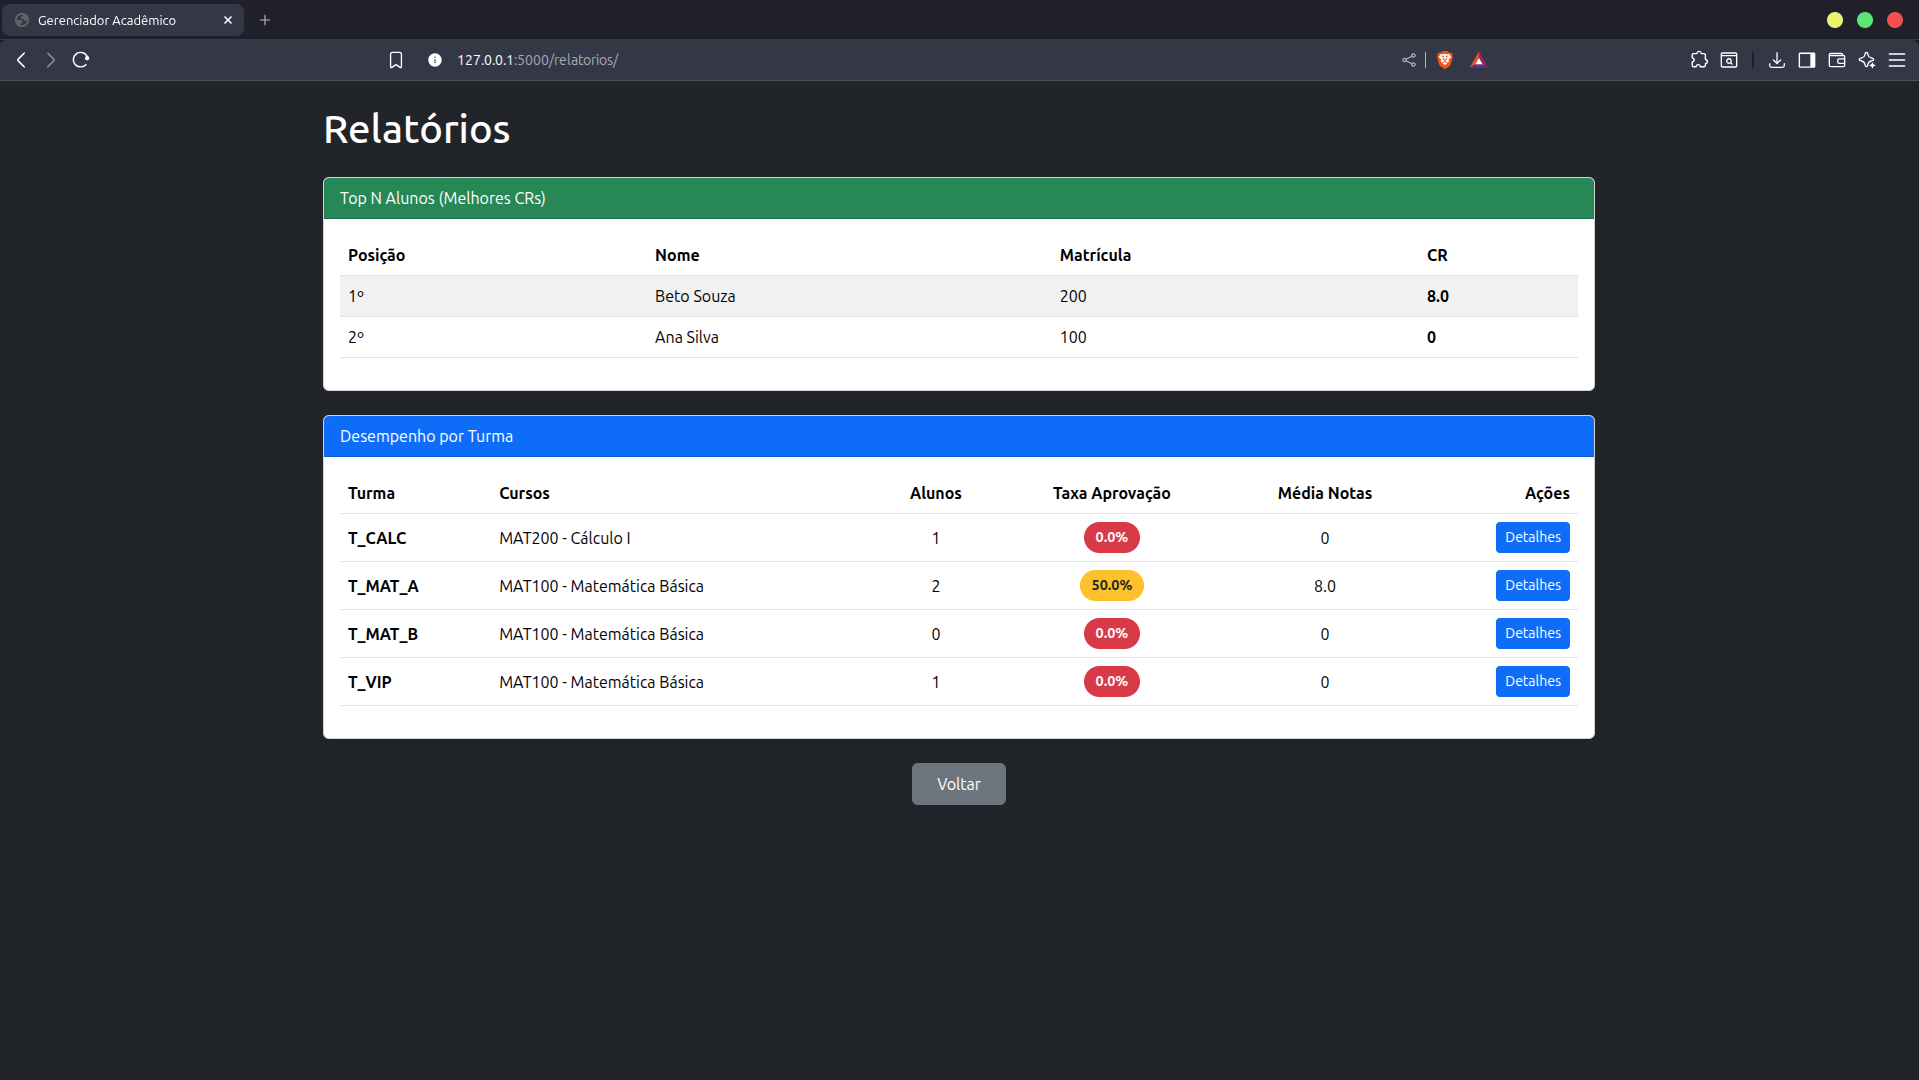
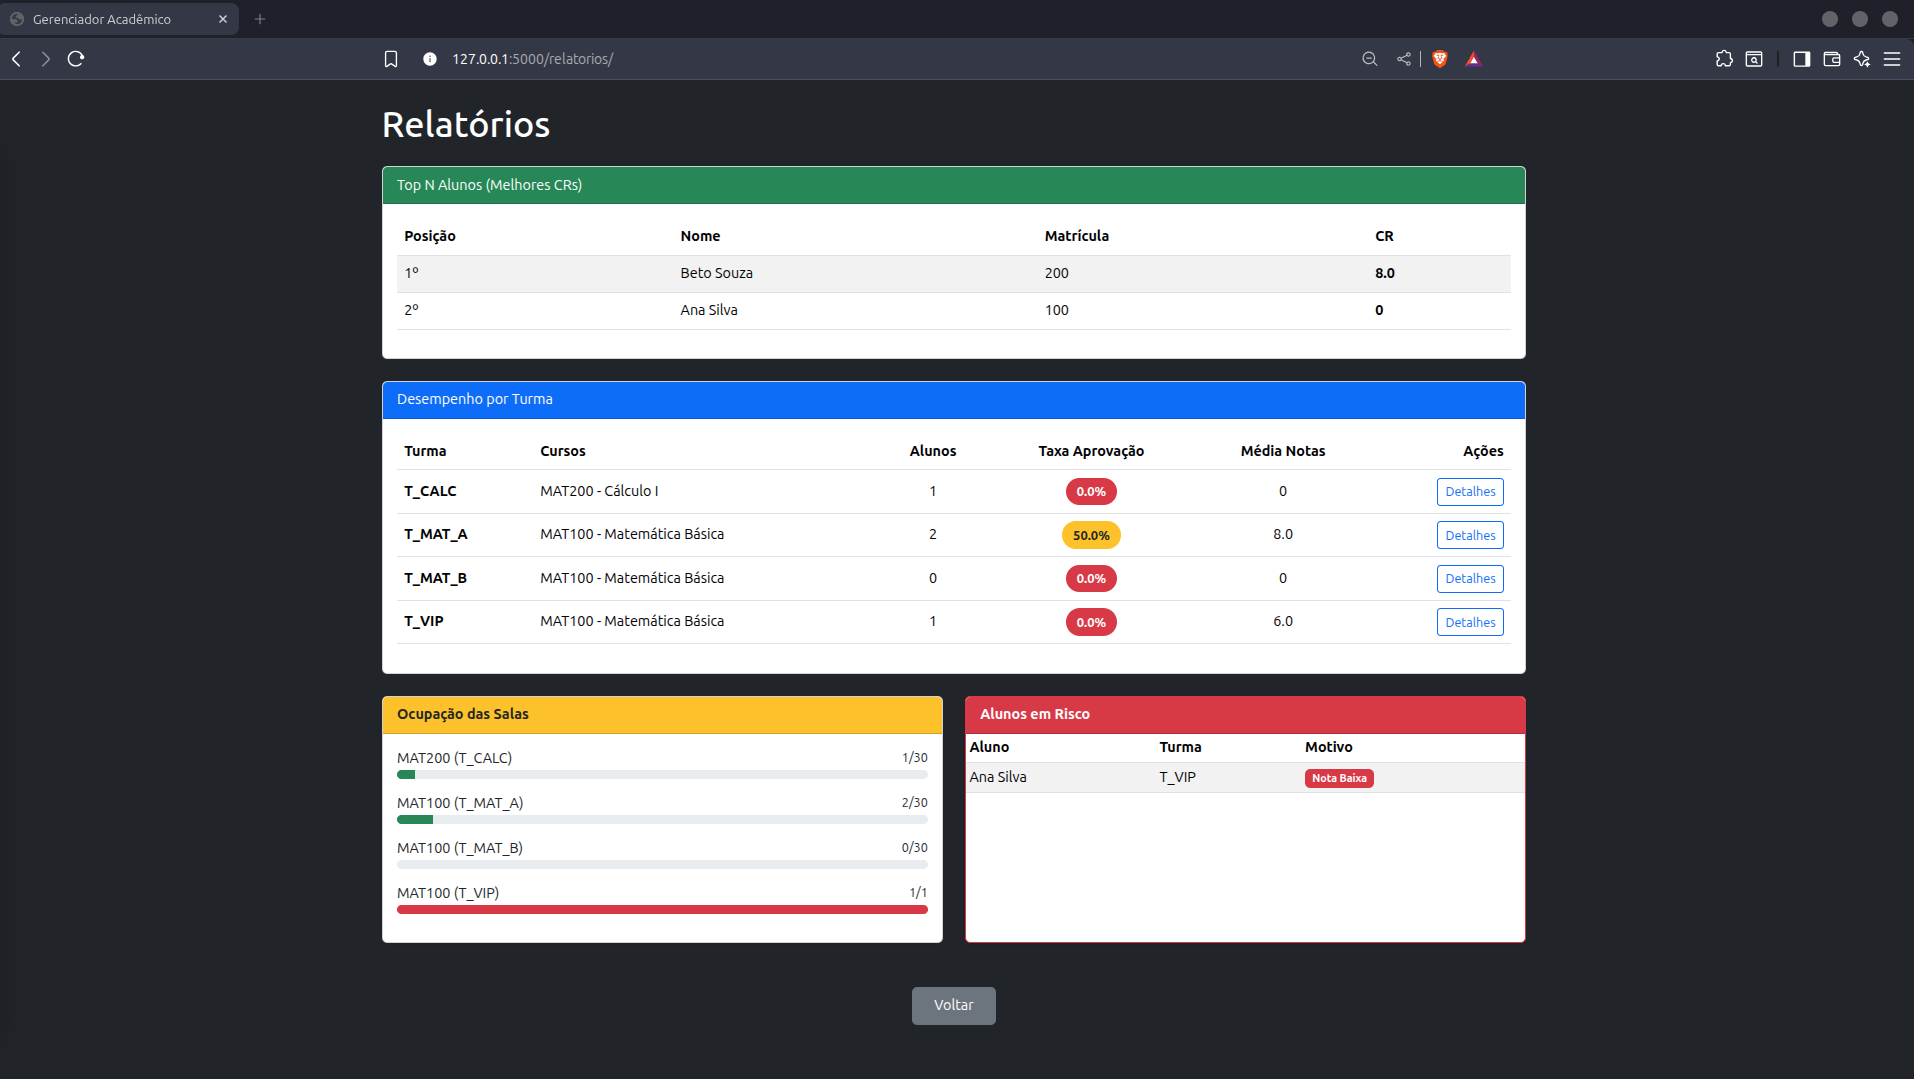
Adiciona últimos ajustes do projeto

diff --git a/templates/relatorios/relatorios.html b/templates/relatorios/relatorios.html
@@ -1,6 +1,7 @@
 {% extends "base.html" %} {% block content %}
 <div class="container mt-4">
   <h1 class="mb-4">Relatórios</h1>
+
   <div class="card mb-4">
     <div class="card-header bg-success text-white">
       Top N Alunos (Melhores CRs)
@@ -33,7 +34,7 @@
     </div>
   </div>
 
-  <div class="card">
+  <div class="card mb-4">
     <div class="card-header bg-primary text-white">Desempenho por Turma</div>
     <div class="card-body">
       <table class="table table-hover align-middle">
@@ -68,7 +69,7 @@
             <td class="text-end">
               <a
                 href="/relatorios/detalhe/turma/{{ t.codigo }}"
-                class="btn btn-sm btn-primary"
+                class="btn btn-sm btn-outline-primary"
               >
                 Detalhes
               </a>
@@ -84,8 +85,70 @@
     </div>
   </div>
 
+  <div class="row">
+    <div class="col-md-6 mb-4">
+      <div class="card h-100 shadow-sm">
+        <div class="card-header bg-warning text-dark fw-bold">
+          Ocupação das Salas
+        </div>
+        <div class="card-body">
+          {% for t in ocupacao %}
+          <div class="mb-3">
+            <div class="d-flex justify-content-between">
+              <span>{{ t.curso }} ({{ t.codigo }})</span>
+              <small>{{ t.ocupadas }}/{{ t.vagas_totais }}</small>
+            </div>
+            <div class="progress" style="height: 10px">
+              <div
+                class="progress-bar {% if t.lotada %}bg-danger{% else %}bg-success{% endif %}"
+                style="{{ 'width: {}%;'.format(t.porcentagem) }}"
+              ></div>
+            </div>
+          </div>
+          {% else %}
+          <p class="text-muted">Sem dados.</p>
+          {% endfor %}
+        </div>
+      </div>
+    </div>
+
+    <div class="col-md-6 mb-4">
+      <div class="card h-100 shadow-sm border-danger">
+        <div class="card-header bg-danger text-white fw-bold">
+          Alunos em Risco
+        </div>
+        <div class="card-body p-0">
+          <table class="table table-sm table-striped mb-0">
+            <thead>
+              <tr>
+                <th>Aluno</th>
+                <th>Turma</th>
+                <th>Motivo</th>
+              </tr>
+            </thead>
+            <tbody>
+              {% for a in risco %}
+              <tr>
+                <td>{{ a.nome }}</td>
+                <td>{{ a.turma }}</td>
+                <td><span class="badge bg-danger">{{ a.motivo }}</span></td>
+              </tr>
+              {% else %}
+              <tr>
+                <td colspan="3" class="text-center p-3 text-success">
+                  Nenhum aluno em risco!
+                </td>
+              </tr>
+              {% endfor %}
+            </tbody>
+          </table>
+        </div>
+      </div>
+    </div>
+  </div>
+
   <div class="d-flex justify-content-center mt-4 mb-4">
-    <a href="\" class="btn btn-secondary px-4 py-2"> Voltar </a>
+    <a href="/" class="btn btn-secondary px-4 py-2"> Voltar </a>
   </div>
 </div>
 {% endblock %}

diff --git a/templates/turmas/cad_turma.html b/templates/turmas/cad_turma.html
@@ -20,7 +20,7 @@ voltar = "/turmas" %} {% block campos %}
 <!-- Semestre -->
 <div class="mb-3">
   <label class="form-label">Semestre</label>
-  <input name="semestre" class="form-control" placeholder="2025.1" />
+  <input name="semestre" class="form-control" placeholder="Ex: 2025.1" />
 </div>
 
 <!-- Vagas -->

diff --git a/templates/cursos/cad_curso.html b/templates/cursos/cad_curso.html
@@ -30,7 +30,7 @@ voltar = "/cursos" %} {% block campos %}
   </select>
 
   <div class="form-text text-light opacity-75">
-    <small>Segure CTRL para selecionar mais de um.</small>
+    <small>Segure CTRL para selecionar ou desselecionar um ou mais itens</small>
   </div>
 </div>
 

diff --git a/src/services/relatorio_service.py b/src/services/relatorio_service.py
@@ -132,3 +132,65 @@ def relatorio_top_alunos():
     lista_alunos.sort(reverse=True)
     n = config.top_n_alunos or 5
     return [{"nome": a.nome, "matricula": a.matricula, "cr": round(a.calcular_cr(), 2)} for a in lista_alunos[:n]]
+
+def relatorio_ocupacao_turmas():
+    turmas = carregar_turmas()
+    matriculas = carregar_matriculas()
+    relatorio = []
+
+    for t in turmas:
+        # Conta matrículas ativas (não trancadas) nesta turma
+        ocupadas = sum(
+            1 for m in matriculas
+            if m["turma"] == t["codigo_oferta"] and m["status"] != "TRANCADA"
+        )
+        
+        # Calcula porcentagem para barra de progresso
+        porcentagem = (ocupadas / t["vagas"]) * 100 if t["vagas"] > 0 else 0
+
+        relatorio.append({
+            "codigo": t["codigo_oferta"],
+            "curso": t["codigo_curso"],
+            "ocupadas": ocupadas,
+            "vagas_totais": t["vagas"],
+            "porcentagem": round(porcentagem, 1),
+            "lotada": ocupadas >= t["vagas"]
+        })
+
+    return relatorio
+
+def relatorio_alunos_em_risco():
+    matriculas = carregar_matriculas()
+    alunos = carregar_alunos()
+    
+    # Transforma lista de alunos em dicionario para busca rápida
+    # Chave = Matricula (str), Valor = Dados do Aluno
+    mapa_alunos = {str(a["matricula"]): a for a in alunos}
+
+    alunos_risco = []
+
+    for m in matriculas:
+        # So analisa quem está cursando agora
+        if m["status"] == "CURSANDO":
+            nota = m.get("nota")
+            freq = m.get("frequencia")
+
+            # Verifica se está abaixo da média configurada
+            nota_baixa = (nota is not None and nota < config.nota_minima_aprovacao)
+            freq_baixa = (freq is not None and freq < config.frequencia_minima)
+
+            if nota_baixa or freq_baixa:
+                # Busca no dicionário
+                aluno = mapa_alunos.get(str(m["aluno"]))
+
+                if aluno:
+                    alunos_risco.append({
+                        "nome": aluno["nome"],
+                        "matricula": aluno["matricula"],
+                        "turma": m["turma"],
+                        "nota": nota if nota is not None else "-",
+                        "frequencia": freq if freq is not None else "-",
+                        "motivo": "Nota Baixa" if nota_baixa and not freq_baixa else ("Frequência Baixa" if freq_baixa and not nota_baixa else "Ambos")
+                    })
+
+    return alunos_risco

diff --git a/routes/relatorios_routes.py b/routes/relatorios_routes.py
@@ -2,7 +2,9 @@ from flask import Blueprint, render_template
 from src.services.relatorio_service import (
     relatorio_aprovacao_turma, 
     relatorio_notas_turma, 
-    relatorio_top_alunos
+    relatorio_top_alunos,
+    relatorio_ocupacao_turmas,
+    relatorio_alunos_em_risco
 )
 from src.infra.persistencia import carregar_turmas, carregar_cursos
 
@@ -53,11 +55,16 @@ def dashboard():
             "total_alunos": aprovacao["total"]
         })
 
+    ocupacao = relatorio_ocupacao_turmas()
+    risco = relatorio_alunos_em_risco()
+
     return render_template(
-        "relatorios/relatorios.html", 
+        "relatorios/relatorios.html",
         top_alunos=top_alunos,
         stats_turmas=stats_turmas,
-        cursos=cursos
+        cursos=cursos,
+        ocupacao=ocupacao,
+        risco=risco
     )
 
 # Rota detalhada que mostra top n aluno desvio padão meida 
